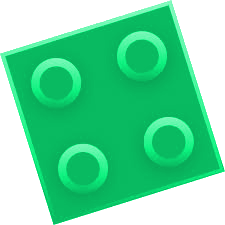
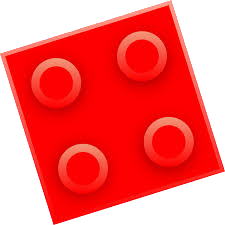
brick back to red

diff --git a/index.html b/index.html
@@ -193,11 +193,11 @@
                                 <i class="fa fa-plus fa-3x"></i>
                             </div>
                         </div>
-                        <img src="img/portfolio/startup-framework.png" class="img-responsive" alt="">
+                        <img src="img/janet/fieldwork.jpg" class="img-responsive" alt="">
                     </a>
                     <div class="portfolio-caption">
-                        <h4>Touch'N-Go</h4>
-                        <p class="text-muted">New Unity Tool Development</p>
+                        <h4>Emory Winship Intern</h4>
+                        <p class="text-muted">Summer 2017</p>
                     </div>
                 </div>
 
@@ -208,7 +208,7 @@
                                 <i class="fa fa-plus fa-3x"></i>
                             </div>
                         </div>
-                        <img src="img/portfolio/treehouse.png" class="img-responsive" alt="">
+                        <img src="img/janet/fieldwork.jpg" class="img-responsive" alt="">
                     </a>
                     <div class="portfolio-caption">
                         <h4>FieldWork</h4>
